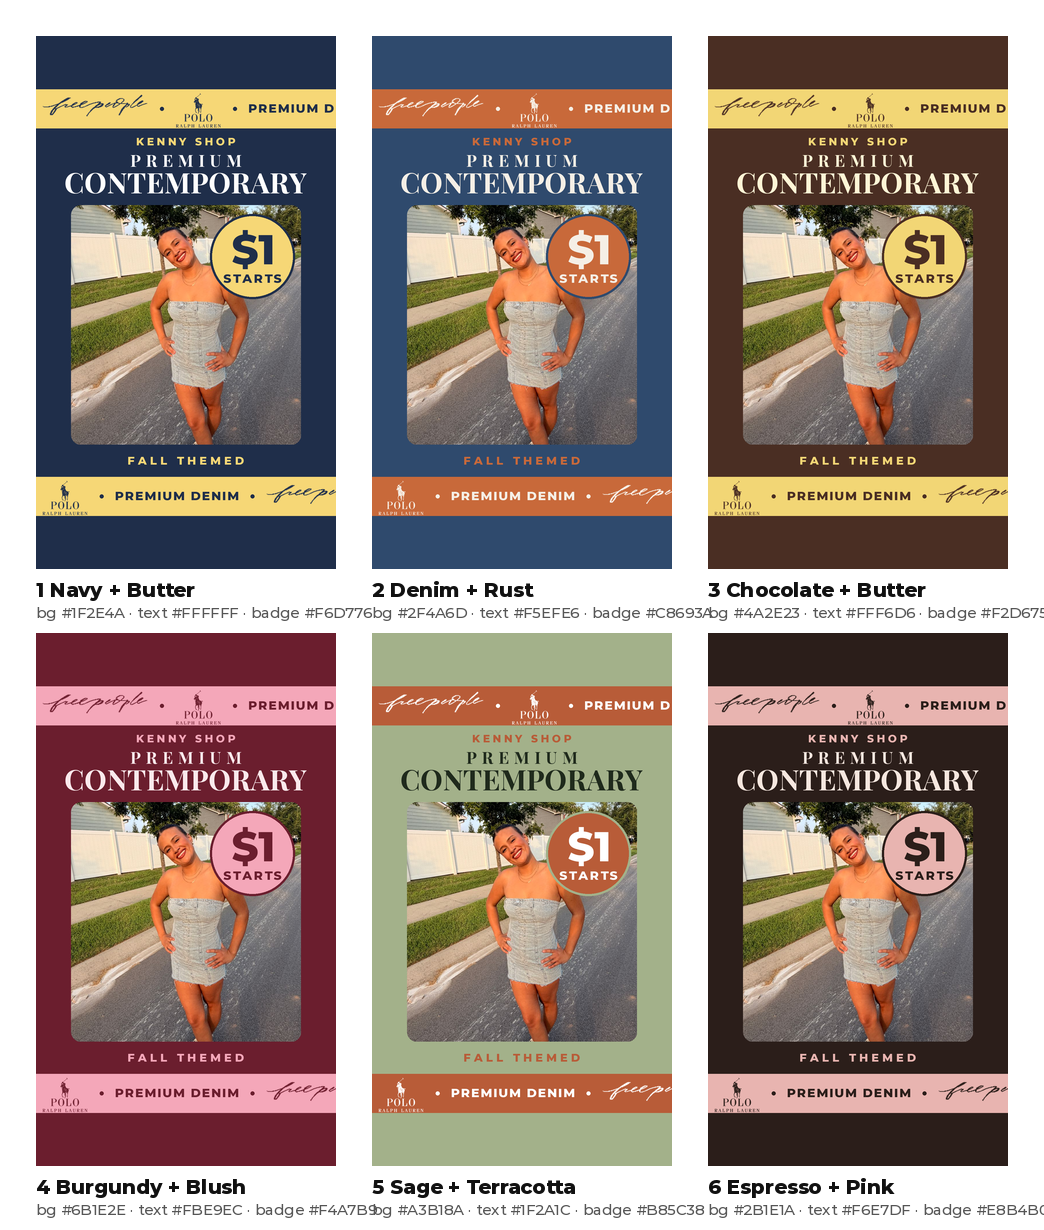
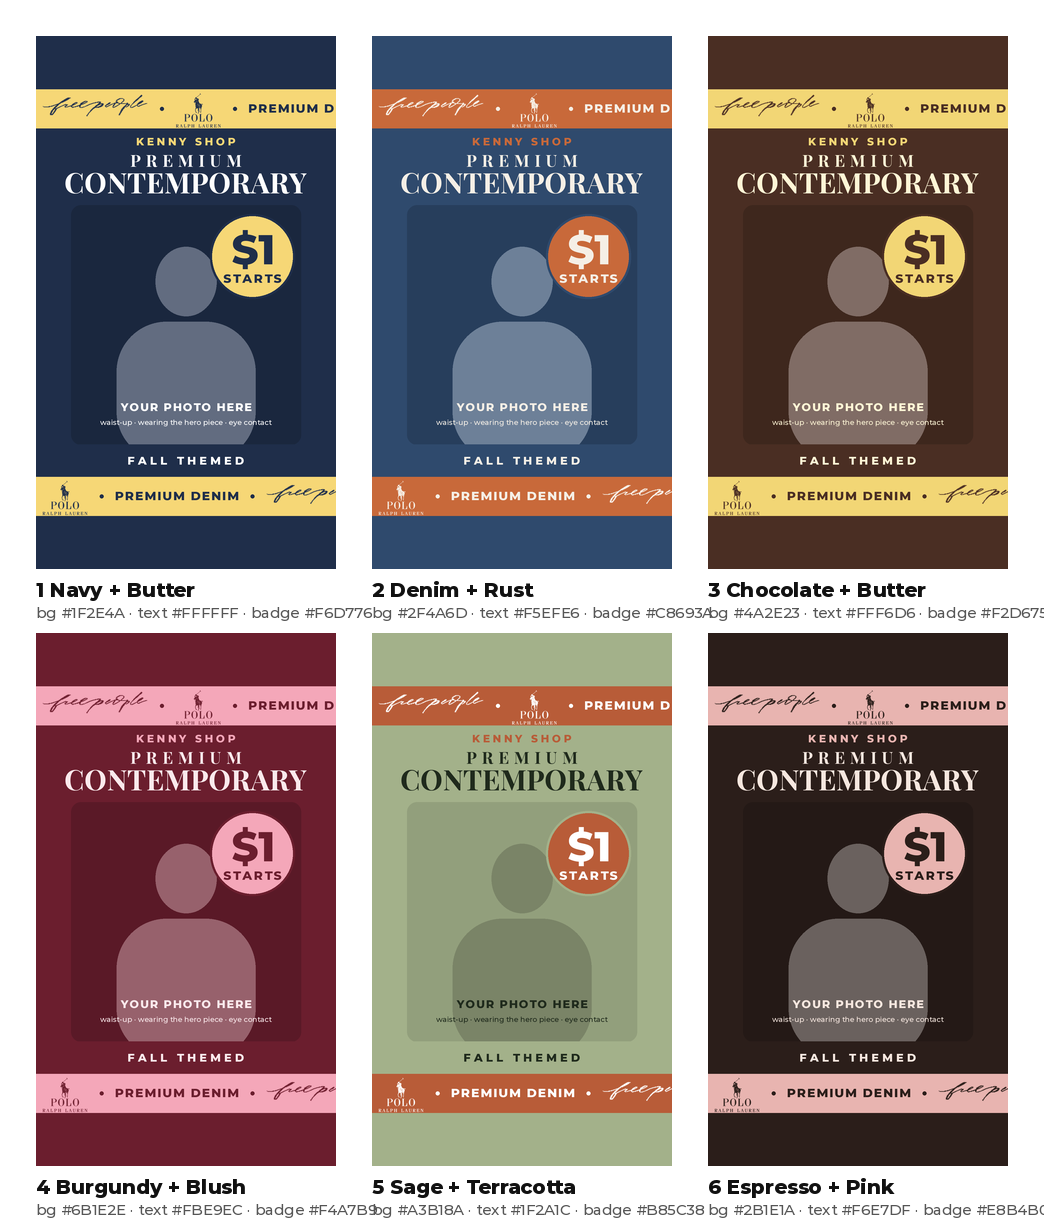
Kids covers: new 70s green/orange Kids Vintage, taller photo slot, tighter crops
One-line headline gives the photo more height so the whole outfit fits; the
Kids Modern badge moves bottom-left to stay off her face. Adds a Kids Vintage
color options sheet.

Claude-Session: https://claude.ai/code/session_01Q51WZ95sB4G4SBq6JMRbx6

diff --git a/02-branding/whatnot-covers/make_covers.py b/02-branding/whatnot-covers/make_covers.py
@@ -51,12 +51,12 @@ SHOWS["premium-contemporary-2"] = dict(
 # Kids shows: two covers each, baby sizes and kids sizes.
 KID_HINT = "your little one wearing the hero piece · smiling"
 SHOWS["kids-vintage"] = dict(
-    # 90s mustard + cherry red, retro type
-    bg="#F2B33D", ink="#3A2216", accent="#C8372D", badge_ink="#FFF3DC",
-    photo_bg="#E3A22C", figure="#F8D27E",
+    # 70s green + orange, retro type
+    bg="#2F6B4F", ink="#FFEFD2", accent="#F2913D", badge_ink="#2F3B2A",
+    photo_bg="#285C44", figure="#4F8A6D",
     head_font=RETRO, head_scale=1.0, top_font=CHUNKY, top_size=96, badge_font=CHUNKY,
     top="KIDS", main="VINTAGE", brand_font=CHUNKY, photo_hint=KID_HINT,
-    footer_font=CHUNKY, footer_size=58, footer_ink="#3A2216",
+    footer_font=CHUNKY, footer_size=58, footer_ink="#FFEFD2", one_line=True,
     brands=["OSHKOSH B'GOSH", "DISNEY", "GYMBOREE", "LEVI'S"],
 )
 SHOWS["kids-modern"] = dict(
@@ -67,12 +67,12 @@ SHOWS["kids-modern"] = dict(
     top="KIDS", main="MODERN", brand_font=ROUND_B, photo_hint=KID_HINT,
     footer_font=ROUND_B, footer_size=58, footer_ink="#1E3A5F",
     brands=["HANNA ANDERSSON", "MINI BODEN", "ZARA"],
-    badge_left=True,  # her face sits right of center in this photo
+    one_line=True, badge="bottom-left",  # keeps the $1 off her face
 )
 KID_SIZES = {"baby": "SIZES NB–24M", "kids": "SIZES 2T–XL"}
 KID_PHOTOS = {  # photo, crop
-    "kids-vintage": (HERE / "photos" / "kids-vintage.png", (0, 40, 1320, 1276)),
-    "kids-modern": (HERE / "photos" / "kids-modern.png", (0, 100, 1320, 1336)),
+    "kids-vintage": (HERE / "photos" / "kids-vintage.png", (190, 30, 1100, 1300)),
+    "kids-modern": (HERE / "photos" / "kids-modern.png", (100, 280, 1320, 1590)),
 }
 for show, (photo, crop) in KID_PHOTOS.items():
     for size, line in KID_SIZES.items():
@@ -260,9 +260,14 @@ def build(name, s, out=None):
     inner = sx1 - sx0 - 40
     y = sy0 + BAND + 34
     y = paste_center(c, text_img("KENNY SHOP", SANS_B, 38, s.get("logo", s["accent"]), spacing=10), y) + 34
-    top = text_img(s["top"], s.get("top_font", s["head_font"]), s.get("top_size", 60), s["ink"], s["head_scale"], spacing=18)
-    y = paste_center(c, top, y) + 20
-    y = paste_center(c, fit_text(s["main"], s["head_font"], inner, 170, s["ink"], s["head_scale"]), y) + 40
+    if s.get("one_line"):
+        # "KIDS VINTAGE" on one line leaves a taller photo for full-outfit shots
+        head = fit_text(f'{s["top"]} {s["main"]}', s["head_font"], inner, 150, s["ink"], s["head_scale"])
+        y = paste_center(c, head, y) + 40
+    else:
+        top = text_img(s["top"], s.get("top_font", s["head_font"]), s.get("top_size", 60), s["ink"], s["head_scale"], spacing=18)
+        y = paste_center(c, top, y) + 20
+        y = paste_center(c, fit_text(s["main"], s["head_font"], inner, 170, s["ink"], s["head_scale"]), y) + 40
     footer = None
     if s.get("footer"):
         footer = text_img(s["footer"], s.get("footer_font", SANS_B), s.get("footer_size", 40),
@@ -270,8 +275,11 @@ def build(name, s, out=None):
     footer_h = footer.height + 52 if footer else 0
     photo_box = (sx0 + 40, y, sx1 - 40, sy1 - BAND - 36 - footer_h)
     draw_photo(c, s, photo_box)
-    bx = photo_box[0] + 175 if s.get("badge_left") else photo_box[2] - 175
-    badge(c, s, bx, photo_box[1] + 185, 145)
+    # badge="top-right" (default), "top-left" or "bottom-left": wherever it misses faces
+    spot = s.get("badge", "top-right")
+    bx = photo_box[0] + 175 if spot.endswith("left") else photo_box[2] - 175
+    by = photo_box[3] - 185 if spot.startswith("bottom") else photo_box[1] + 185
+    badge(c, s, bx, by, 145)
     if footer:
         fy = photo_box[3] + (sy1 - BAND - photo_box[3] - footer.height) // 2
         c.alpha_composite(footer, ((W - footer.width) // 2, fy))

diff --git a/02-branding/whatnot-covers/color_options.py b/02-branding/whatnot-covers/color_options.py
@@ -35,6 +35,15 @@ ACTIVEWEAR = {
     "6 Black + Neon Lime": ("#111111", "#FFFFFF", "#C6FF3D", "#111111"),
 }
 
+KIDS_VINTAGE = {
+    "1 Denim + Cherry": ("#35507A", "#FFF1D6", "#E0493A", "#FFF1D6"),
+    "2 Bubblegum + Grape": ("#F6A3C4", "#4B1F5E", "#6A2C91", "#FFE9F2"),
+    "3 70s Green + Orange": ("#2F6B4F", "#FFEFD2", "#F2913D", "#2F3B2A"),
+    "4 Lilac + Sunshine": ("#B79CE0", "#2E1A47", "#FFD23F", "#2E1A47"),
+    "5 Chocolate + Pink": ("#4A2C22", "#FFE6D8", "#F59AB8", "#4A2C22"),
+    "6 Cherry + Cream": ("#C8372D", "#FFF3DC", "#FFF3DC", "#C8372D"),
+}
+
 
 def sheet(show, options, out):
     base = SHOWS[show]
@@ -47,6 +56,7 @@ def sheet(show, options, out):
     for i, (label, (bg, ink, badge, badge_ink, *logo)) in enumerate(options.items()):
         dark = sum(int(bg[j:j + 2], 16) for j in (1, 3, 5)) < 384
         s = dict(base, bg=bg, ink=ink, accent=badge, badge_ink=badge_ink, logo=(logo or [badge])[0],
+                 footer_ink=ink,
                  photo_bg=shade(bg, 0.85 if dark else 0.9),
                  figure=shade(bg, 1.3) if dark else shade(bg, 0.75))
         cover = build(show, s, out=HERE / "_tmp.png")
@@ -62,4 +72,5 @@ def sheet(show, options, out):
 if __name__ == "__main__":
     sheet("premium-contemporary", CONTEMPORARY, "options-contemporary.png")
     sheet("premium-activewear", ACTIVEWEAR, "options-activewear.png")
+    sheet("kids-vintage", KIDS_VINTAGE, "options-kids-vintage.png")
     print("done")

diff --git a/02-branding/thumbnail-maker.md b/02-branding/thumbnail-maker.md
@@ -53,20 +53,22 @@ slightly low in the strip (`RUNNER_NUDGE` in `make_covers.py`).
 - Text: `PREMIUM ACTIVEWEAR` · `$1 STARTS` · runners: Free People Movement · Lululemon · Nike logos
 - Outfit: a matching set (Align, Define, Alo) in a color that pops against bright blue (orange, black, white, lime). Avoid blue sets.
 
-### Kids Vintage: 90s mustard + cherry
-- Colors: mustard `#F2B33D` · dark brown `#3A2216` (headline) · cherry red `#C8372D` (runners, Kenny Shop, $1 badge) · cream `#FFF3DC` (runner and badge text)
-- Fonts: Shrikhand for "VINTAGE" (retro 70s/90s script), Titan One for "KIDS", the $1 and the runners
+### Kids Vintage: 70s green + orange
+- Colors: forest green `#2F6B4F` · cream `#FFEFD2` (headline, sizes) · orange `#F2913D` (runners, Kenny Shop, $1 badge) · dark green `#2F3B2A` (runner and badge text)
+- Fonts: Shrikhand for "KIDS VINTAGE" (retro script, one line), Titan One for the $1, sizes and runners
 - Text: `KIDS VINTAGE` · `$1 STARTS` · runners: OshKosh B'gosh · Disney · Gymboree · Levi's (Claude's picks; swap in real brands)
 - Photo: a little one wearing a vintage hero piece (patchwork overalls, a character tee)
+- Other colors tried (mustard + cherry was the first version): `whatnot-covers/options-kids-vintage.png`
 
 ### Kids Modern: soft mint + tangerine
 - Colors: mint `#9ED8C6` · navy `#1E3A5F` (headline, Kenny Shop, runner and badge text) · tangerine `#FF8A5B` (runners, $1 badge)
 - Fonts: Fredoka Bold (rounded) for everything big
 - Text: `KIDS MODERN` · `$1 STARTS` · runners: Hanna Andersson · Mini Boden · Zara
-- Photo: a little one wearing a current-season piece. The $1 badge sits on the left here so it
-  stays off her face (`badge_left`).
+- Photo: a little one wearing a current-season piece. The $1 badge sits bottom-left here so it
+  stays off her face (`badge="bottom-left"`).
 
-Each kids show has two covers, one per size run, with the sizes in big type under the photo:
+Both kids covers put the headline on one line (`one_line`) so the photo slot is taller and the
+whole outfit fits. Each kids show has two covers, one per size run, with the sizes in big type under the photo:
 `SIZES NB–24M` (baby) and `SIZES 2T–XL` (kids). They're in `final/` as
 `kids-vintage-baby`, `kids-vintage-kids`, `kids-modern-baby`, `kids-modern-kids`.
 To use a different photo, put it in `photos/` and change `KID_PHOTOS` in `make_covers.py`.

diff --git a/LESSONS.md b/LESSONS.md
@@ -71,6 +71,8 @@ Claude reads this before every task and adds to it as it goes (see
   repo is public). Kids Modern brands: Hanna Andersson, Mini Boden, Zara. Kids
   Vintage brands (OshKosh, Disney, Gymboree, Levi's) are Claude's picks.
 - Phone screenshots of photos: crop out the Photos app bars before using them.
+- Crop cover photos tight on the child with the full outfit showing, and move
+  the $1 badge (`badge=` in `SHOWS`) so it never covers her face.
 
 ## Whatnot shows
 
